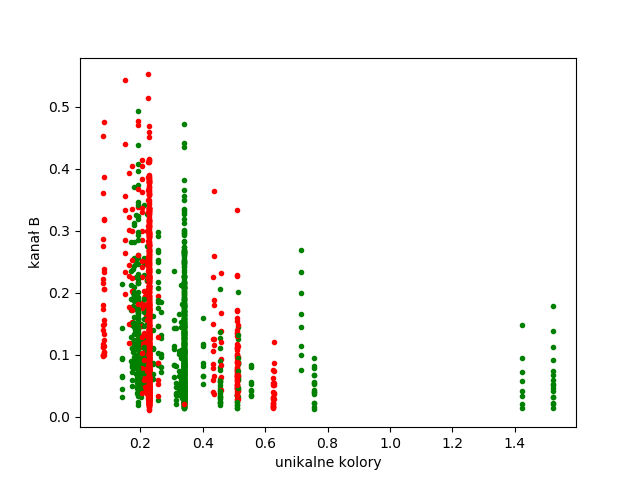
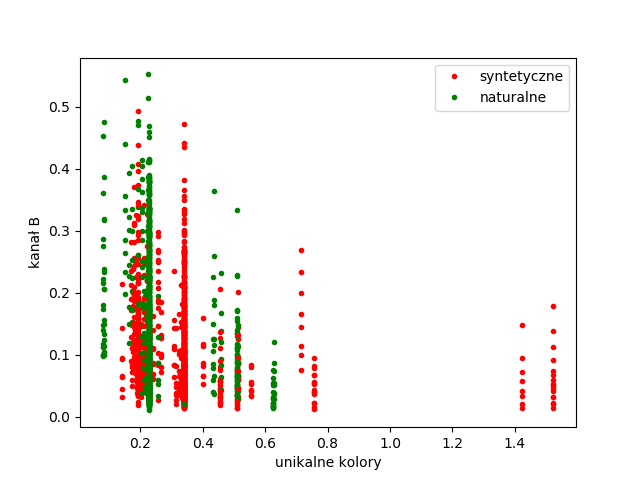
Add chart legend and generate new charts

diff --git a/ImageClassifier/src/ChartDrawer.py b/ImageClassifier/src/ChartDrawer.py
@@ -48,11 +48,22 @@ for i in range(len(channel_color)):
     plt.xlabel('unikalne kolory')
     plt.ylabel('kanał ' + CHANNELS[i])
     file_name = CHANNELS[i] + '.png'
+    labeled_synth = False
+    labeled_real = False
     for offset in OFFSETS:
         for image_type in IMAGE_TYPES:
             unq = unq_real if image_type == REAL else unq_synth
-            type = 'r.' if image_type == REAL else 'g.'
-            plt.plot(unq, offsets[offset, image_type][i], type)
+            type = 'g.' if image_type == REAL else 'r.'
+            label = 'naturalne' if image_type == REAL else 'syntetyczne'
+            if labeled_real == False and image_type == REAL:
+                labeled_real = True
+                plt.plot(unq, offsets[offset, image_type][i], type, label=label)
+            elif labeled_synth == False and image_type == SYNTHETIC:
+                labeled_synth = True
+                plt.plot(unq, offsets[offset, image_type][i], type, label=label)
+            else:
+                plt.plot(unq, offsets[offset, image_type][i], type)
+    plt.legend()
     plt.savefig(path + file_name)
     plt.close()
 
